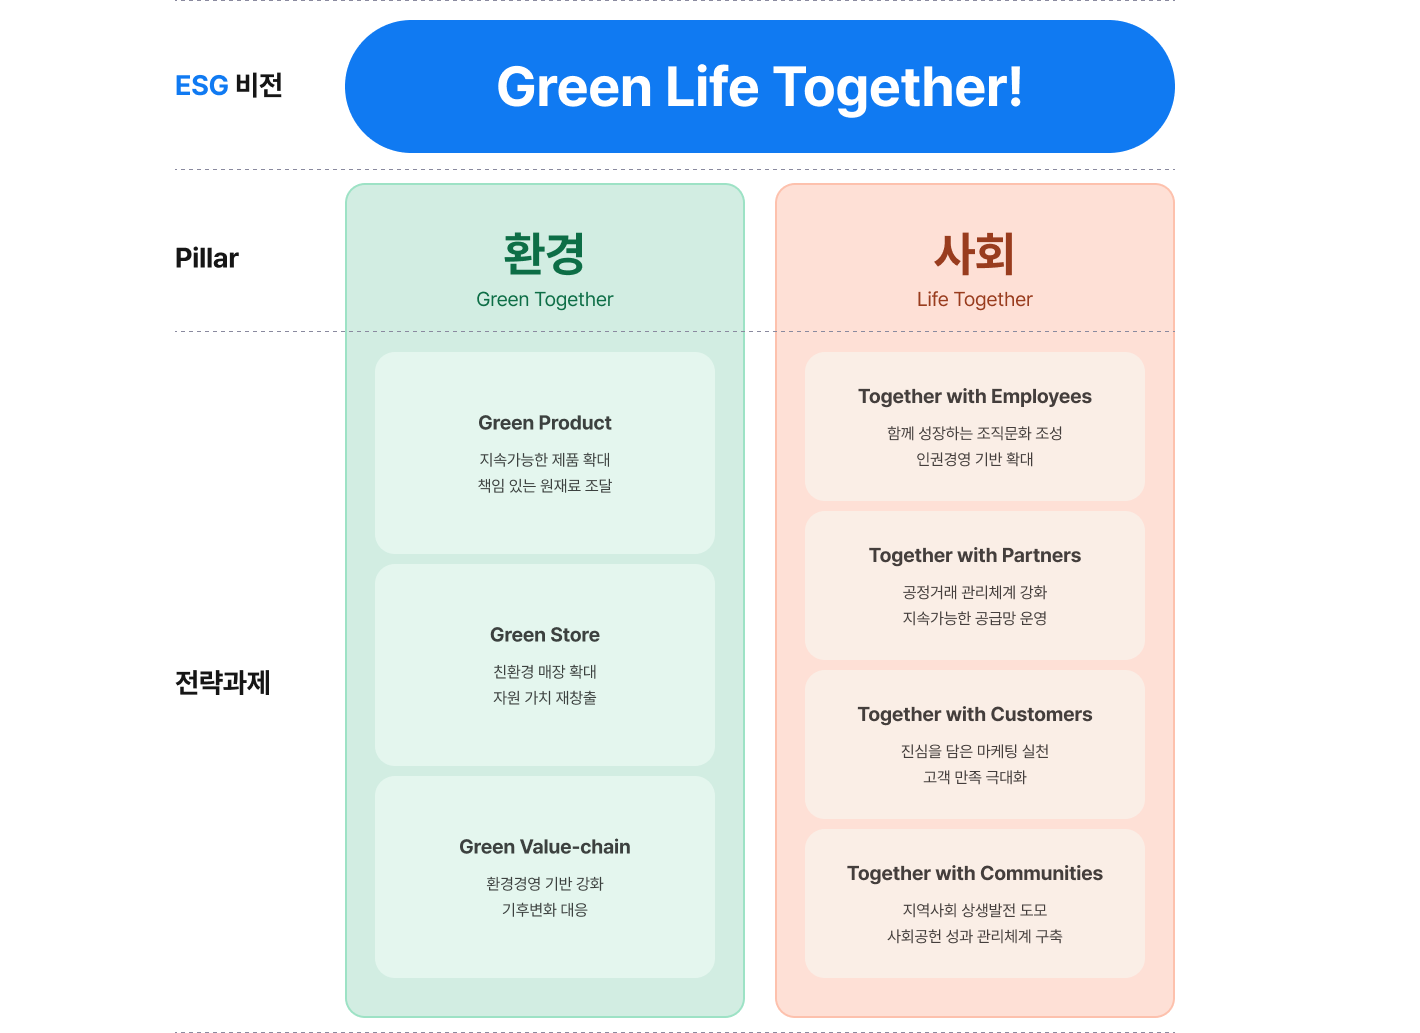
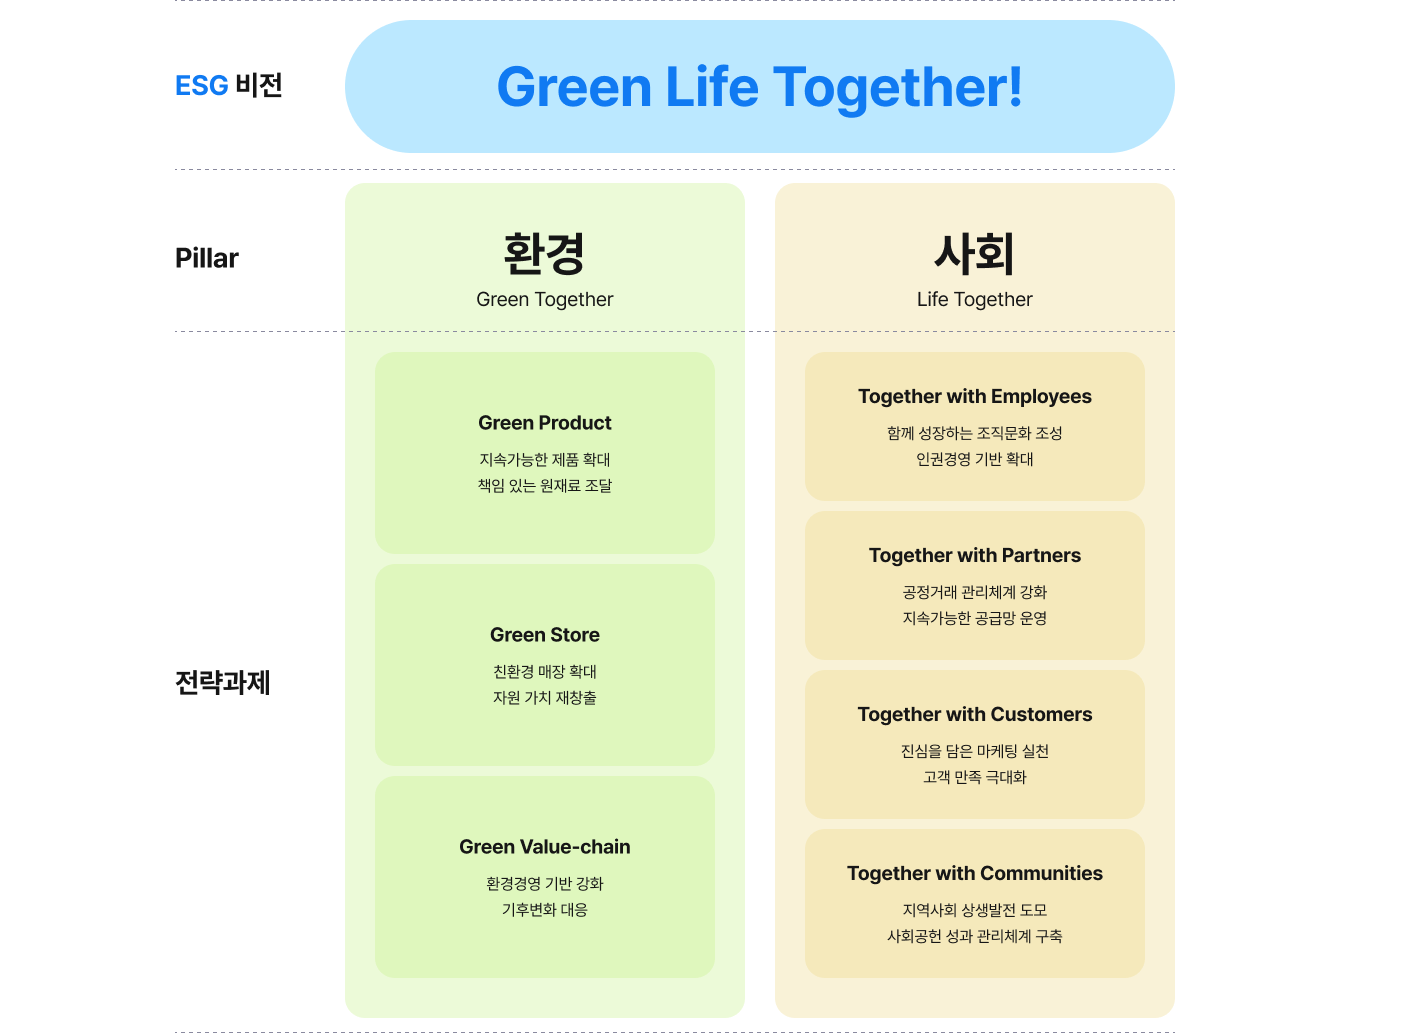
반응형 수정

diff --git a/src/uiPub/gsrab/04/gsrab04.vue b/src/uiPub/gsrab/04/gsrab04.vue
@@ -373,11 +373,12 @@ const t = computed(() => langData[props.lang] || langData.ko);
     @media screen and (max-width: 768px) {
         .title_wrap { display: none; }
         .visual_sub { font-size: 2rem; }
-        section{padding: 60px 0 0;}
+        section{padding: 60px 0 0; gap: 60px;}  /* 26.06.26 edit 이소라 */
         section + section { padding: 60px 0 0; }
         .header h3 { font-size: 2.4rem; font-weight: 700; line-height: 1.35; letter-spacing: -0.01em; text-align: left; }
         .header p { margin: 12px 0 0; font-size: 1.6rem; font-weight: 400; line-height: 1.5; letter-spacing: -0.01em; }
         .header.center h3, .header.center p { text-align: left; }
+        .sec_ci_intro { padding-top: 120px; }  /* 26.06.26 edit 이소라 */
         .sec_color_reg > .header p {margin-bottom:64px; font-weight:400;}
         .cont_box { padding: 36px 20px; }
         .cont_box_row { display: flex; flex-direction: column; gap: 12px; }

diff --git a/src/uiPub/gsrbr/04/gsrbr04.vue b/src/uiPub/gsrbr/04/gsrbr04.vue
@@ -137,7 +137,7 @@ export default {
                         qrDesc: "우리동네GS 앱을 다운로드하고, 다양한 이벤트와 차별화 상품을 만나보세요.<br/>QR코드를 스캔하면 앱 다운로드 페이지로 이동합니다.",
                         qrDesc_mo: "GS25의 다양한 이벤트와 차별화 상품",
                     },
-                    BenefitTitle: "‘우리동네 GS’ 앱에서 <br/>일상의 모든 것을 해결하세요.",
+                    BenefitTitle: "‘우리동네GS’ 앱에서 <br/>일상의 모든 것을 해결하세요.", /* 26.06.26 edit 이소라 */
                     BenefitRows: [
                         [
                             { title: "재고찾기/검색", desc: "전국 매장별 실시간 상품 재고 현황 및 잔여 수량을 간편하게 확인할 수 있습니다.", popId: "gsrbr0403", popType: "lg", popCont: "gsrbr0403"},

diff --git a/src/uiPub/gsrst/02/gsrst02010101.vue b/src/uiPub/gsrst/02/gsrst02010101.vue
@@ -2451,14 +2451,14 @@ watch([isCompetitiveTab, isMobileView], ([isActive]) => {
 const marketingPanel = {
     badge: "마케팅 & 멤버십",
     title: "단골 고객을 만드는 마케팅과 멤버십",
-    desc: "‘우리동네 GS’ 앱부터 100만 구독자 SNS 채널까지, 고객이 다시 찾는 이유를 만듭니다.",
+    desc: "‘우리동네GS’ 앱부터 100만 구독자 SNS 채널까지, 고객이 다시 찾는 이유를 만듭니다.", /* 26.06.26 edit 이소라 */
     desc2: "매출이 오르는 마케팅 지원",
 };
 
 const marketingCards = [
     {
         em: "국내 편의점 다운로드수 1위 어플",
-        title: "우리동네 GS",
+        title: "우리동네GS", /* 26.06.26 edit 이소라 */
         desc: "증정상품 보관부터 5천여종의 와인과 주류 주문까지",
     },
     {

diff --git a/src/uiPub/gsrab/05/gsrab05.vue b/src/uiPub/gsrab/05/gsrab05.vue
@@ -224,6 +224,7 @@ const t = computed(() => langData[props.lang] || langData.ko);
         section + section { padding: 60px 0 0; }
         .header h3 { font-size: 2.4rem; line-height: 1.35; text-align: left; }
         .sec_location { gap: 30px; }
+        .sec_location:nth-of-type(1) { padding-top: 120px; } /* 26.06.26 edit 이소라 */
         .sec_location > .location_panel { padding: 30px 0 36px; flex-direction: column; flex-wrap: nowrap; gap: 0; align-items: stretch; border-top: 1px solid #e5e5e9; }
         .sec_location .location_info { order: 2; flex: none; padding-top: 30px; gap: 36px; }
         .sec_location .location_panel > .map_area, .sec_location .location_panel > .map_stack { order: 1; max-width: 100%;}

diff --git a/src/uiPub/gsrsu/01/gsrsu0101.vue b/src/uiPub/gsrsu/01/gsrsu0101.vue
@@ -1185,6 +1185,7 @@ background-color: #F8F8F8; border-bottom: 1px solid #E5E5E9;}
     .table_wrap.type1 { overflow-x: visible; }
     .table_wrap.type1 table { min-width: 0; table-layout: fixed; }
     .content .tab_wrap {margin-top:24px}
+    .content .tab_wrap:nth-of-type(1) {margin-top:84px} /* 26.06.26 add 이소라 */
     /* 지속가능 보고서 목록 — 모바일 카드형(가로 스크롤 없음) */
     .panel_sustainability_report .sec_sustain_report_hero > figure {width: 100%;}
     .panel_sustainability_report .sec_sustain_report_hero > article > .sustain_report_hero_actions { flex-wrap: nowrap; }

diff --git a/src/uiPub/gsrin/04/gsrin04.vue b/src/uiPub/gsrin/04/gsrin04.vue
@@ -227,10 +227,12 @@ export default {
 .policy_wrap th:first-child, .policy_wrap td:first-child {width:150px}
 
 @media screen and (max-width: 767px) {
+    .cont_inner {padding-top: 52px;} /* 26.06.26 add 이소라 */
     .title_wrap {display:none;}
     .policy_wrap th:first-child, .policy_wrap td:first-child { display: none; }
     .policy_wrap th, .policy_wrap td { padding: 12px; font-size: 15px; }
     .policy_wrap td a, .file_type_text {font-size:16px;}
     .file_type_text {margin-left:8px;}
+    .pagination {margin-top: 24px;} /* 26.06.26 add 이소라 */
 }
 </style>

diff --git a/src/uiPub/gsrab/03/gsrab03.vue b/src/uiPub/gsrab/03/gsrab03.vue
@@ -830,7 +830,7 @@ const currentHistoryTab = computed(() => t.value.HistoryTabs?.[MainTabIdx.value]
     .main-container{padding-top:84px;} /* 26.06.09 add 정다희 : 모바일 스타일 적용 */
     :deep(.tab_wrap){margin:0;}
     .title_wrap { display: none; }
-    .panel { padding: 60px 0 100px; }
+    .panel { padding: 60px 0 0; }  /* 26.06.26 edit 이소라 */
     .sec_history { grid-template-columns: minmax(0, 1fr); gap: 60px; }
     .history_intro > header { min-height: 0; }
     .history_intro > header > p { display: none; }

diff --git a/src/uiPub/gsrab/02/gsrab02.vue b/src/uiPub/gsrab/02/gsrab02.vue
@@ -193,6 +193,7 @@ section > header{margin-bottom:100px;}
     .header {margin-bottom:24px;}
     .header h3 { font-size: 2.4rem; }
     .header p { margin-top: 12px; font-weight: 400; font-size: 1.6rem; line-height: 1.5; letter-spacing: -0.01em; }
+    .sec_vision {padding-top: 120px; } /* 26.06.26 edit 이소라 */
     .sec_vision .img_wrap picture img{max-width: 335px;}
     .swiper{width: calc(100% + 40px); margin: 0 -20px;padding: 0 20px;}
     .sec_value :deep(.value_swiper .swiper-slide) { width: 84.53vw; }

diff --git a/src/uiPub/gsrne/01/gsrnotice.vue b/src/uiPub/gsrne/01/gsrnotice.vue
@@ -136,7 +136,7 @@ export default {
 .board_wrap.type_gallery .item .cont strong {font-size:2rem; line-height:135%; letter-spacing:-0.01em; display:block;}
 
 @media screen and (max-width: 767px) {
-    .title_wrap {margin-top:48px; padding:0 20px; text-align:initial;}
+    .title_wrap {margin-top:100px; padding:0 20px; text-align:initial;} /* 26.06.26 edit 이소라 */
     .title_wrap h2 {display:none;}
     .title_wrap .visual-sub {font-size:2.8rem; font-weight:700; line-height:135%; letter-spacing:-0.01em;}
 

diff --git a/src/uiPub/gsrin/02/gsrin0201.vue b/src/uiPub/gsrin/02/gsrin0201.vue
@@ -607,7 +607,8 @@ tr.bold td, tr.bold th { font-weight: 700 !important; }
     .gsrin0203 .policy_wrap thead {display:none;}
     .policy_desc{font-size: 1.8rem;line-height: 1.4;}
     .table_section {margin-top:80px;}
-    .tab_content_wrap{padding-top:60px;}
+    .cont_inner > .tab_wrap.tabSlide {margin-top: 84px;}  /* 26.06.26 add 이소라 */
+    .tab_content_wrap{padding-top:36px;} /* 26.06.26 add 이소라 */
     .search_filter_area + .table_container .base_table{margin:0;} 
 }
 </style>

diff --git a/src/uiPub/gsrin/03/gsrin0301.vue b/src/uiPub/gsrin/03/gsrin0301.vue
@@ -411,5 +411,8 @@ export default {
     .btn_big {font-size:16px;}
     .policy_wrap td a {font-size:16px;}
     .inner_tabs_wrap + .tab_content{margin-top:80px;}
+    .cont_inner > .tab_wrap.tabSlide {margin-top: 84px;} /* 26.06.26 add 이소라 */
+    .tab_content_wrap{margin:0;padding-top:36px;} /* 26.06.26 add 이소라 */
+    .pagination_area.mt100 {margin-top: 0 !important;} /* 26.06.26 add 이소라 */
 }
 </style>

diff --git a/src/uiPub/gsrst/gsrst_smain.vue b/src/uiPub/gsrst/gsrst_smain.vue
@@ -120,7 +120,7 @@ const t = computed(() => {
 }
 @media (max-width: 768px) {
     :deep(.m_br) { display: block; }
-    .sec_franchise { padding: 60px 0 0; overflow-x: hidden; }
+    .sec_franchise { overflow-x: hidden; } /* 26.06.26 edit 이소라 */
     .sec_inner { padding: 0 20px; }
     .sec_franchise_head {margin-bottom:40px; padding: 0;  }
     .sec_franchise_head > h2 { display: none; }
